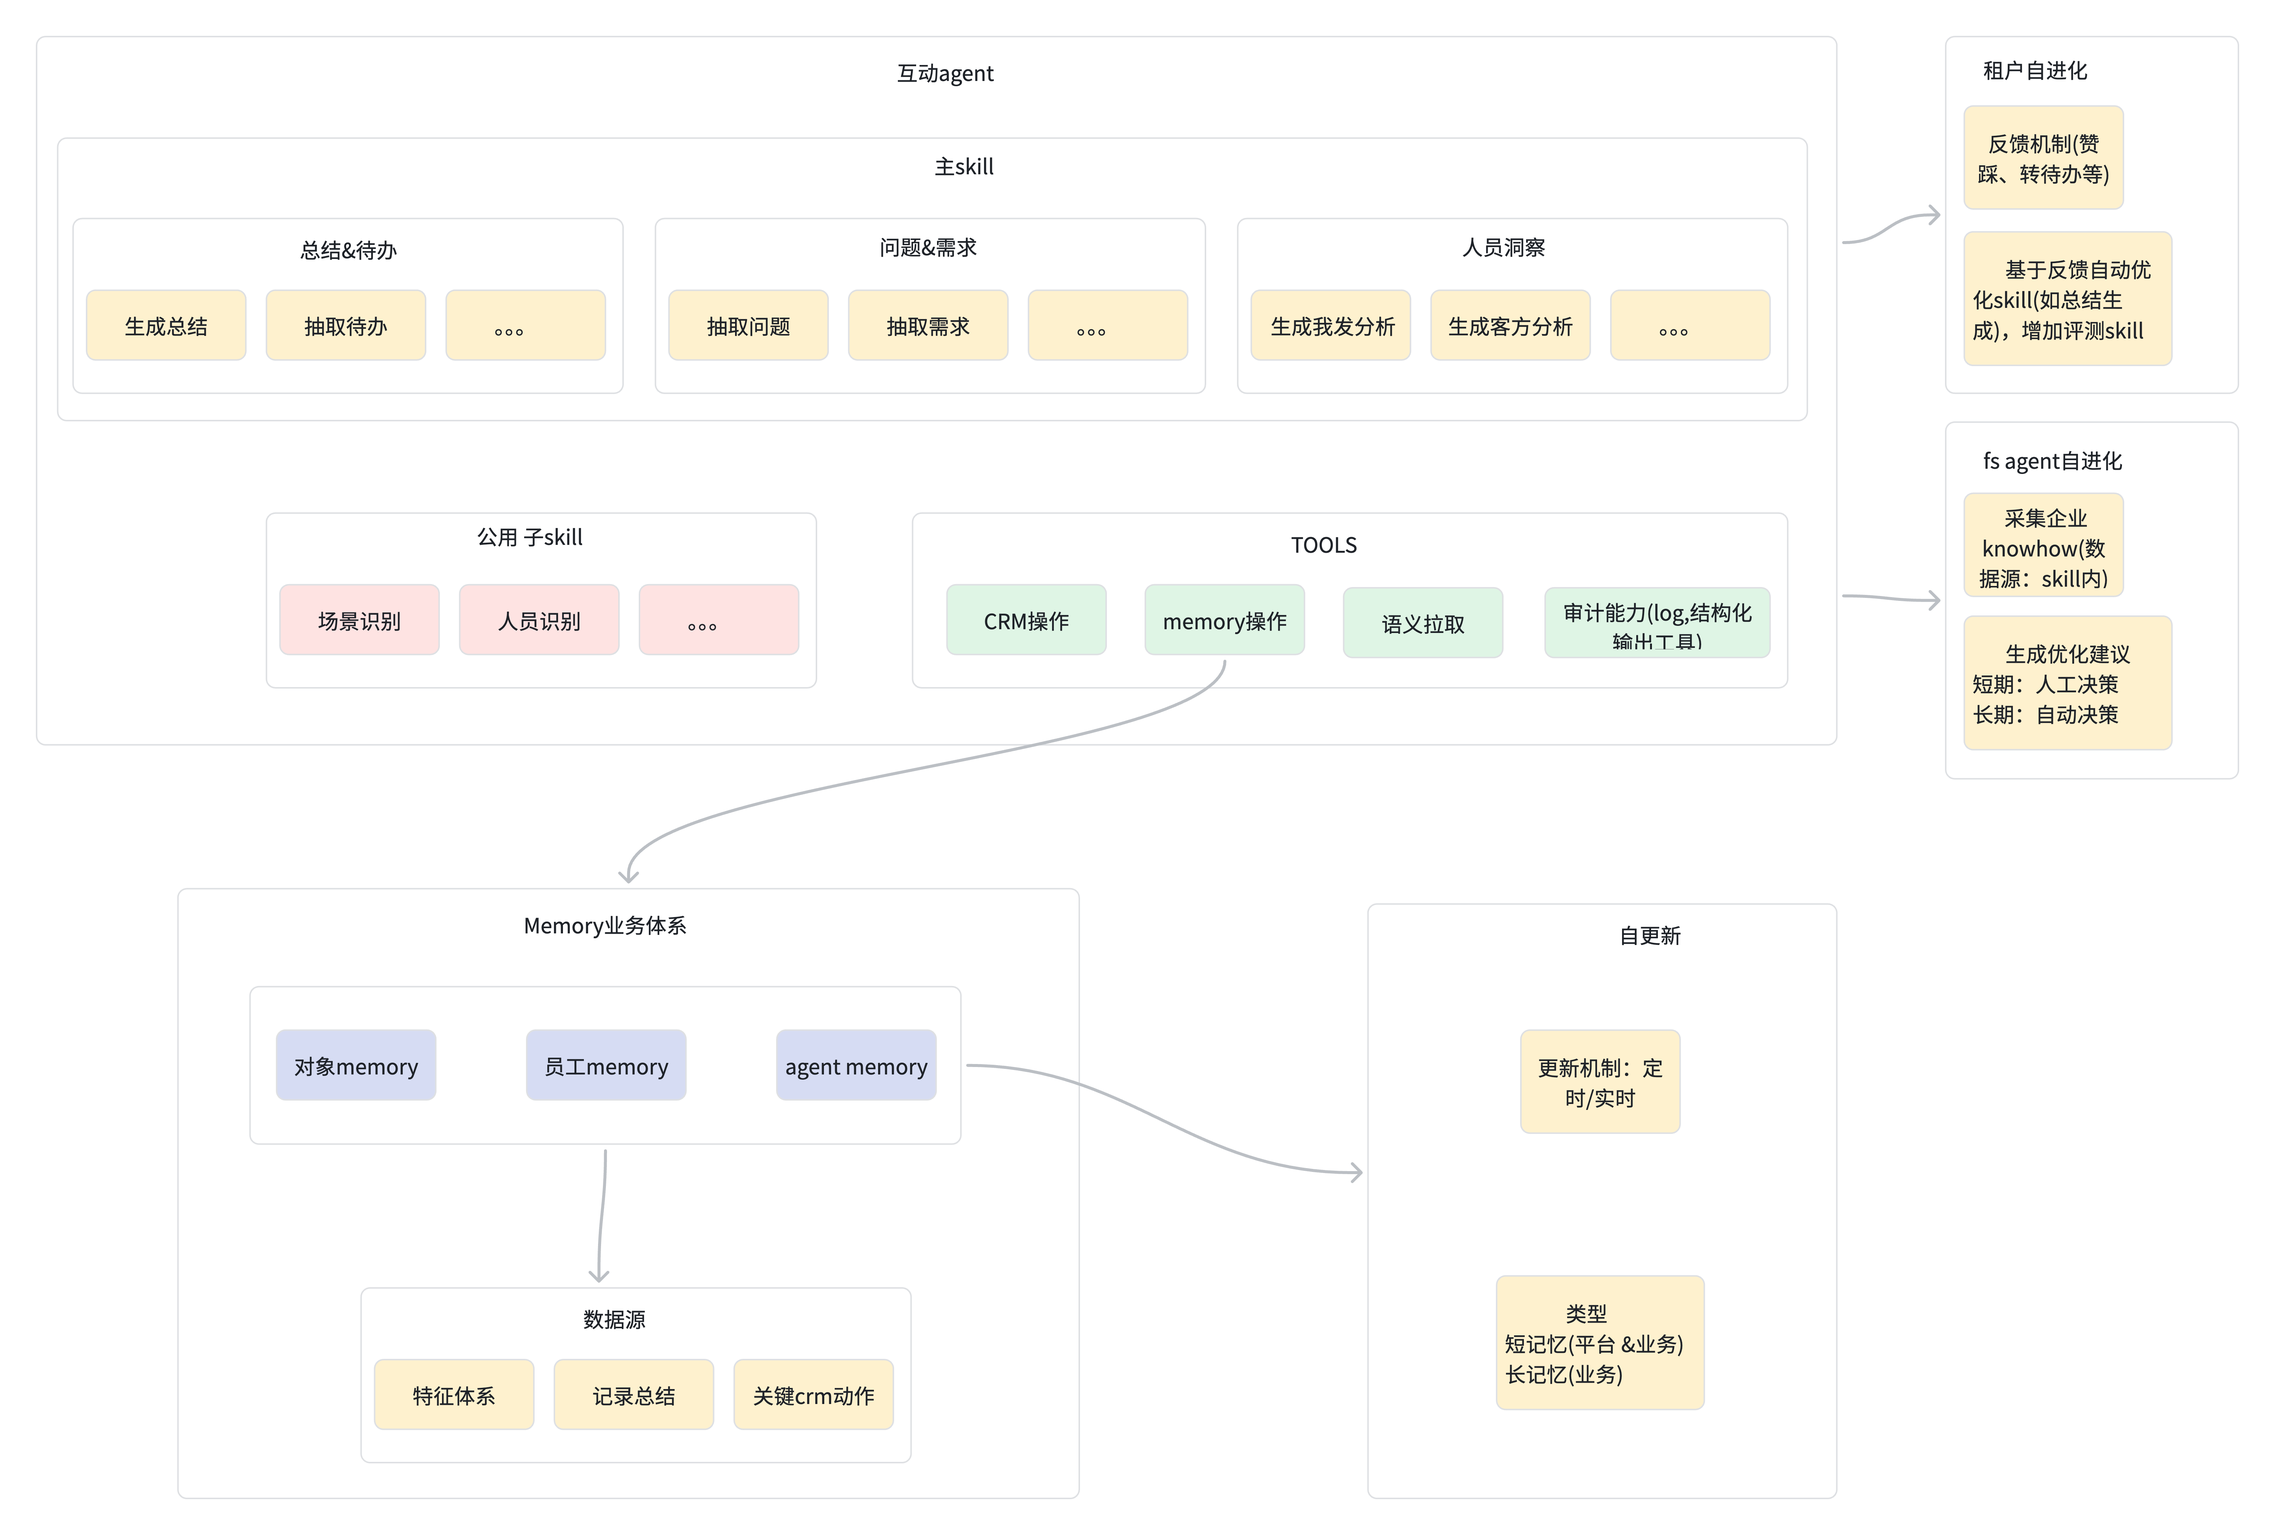
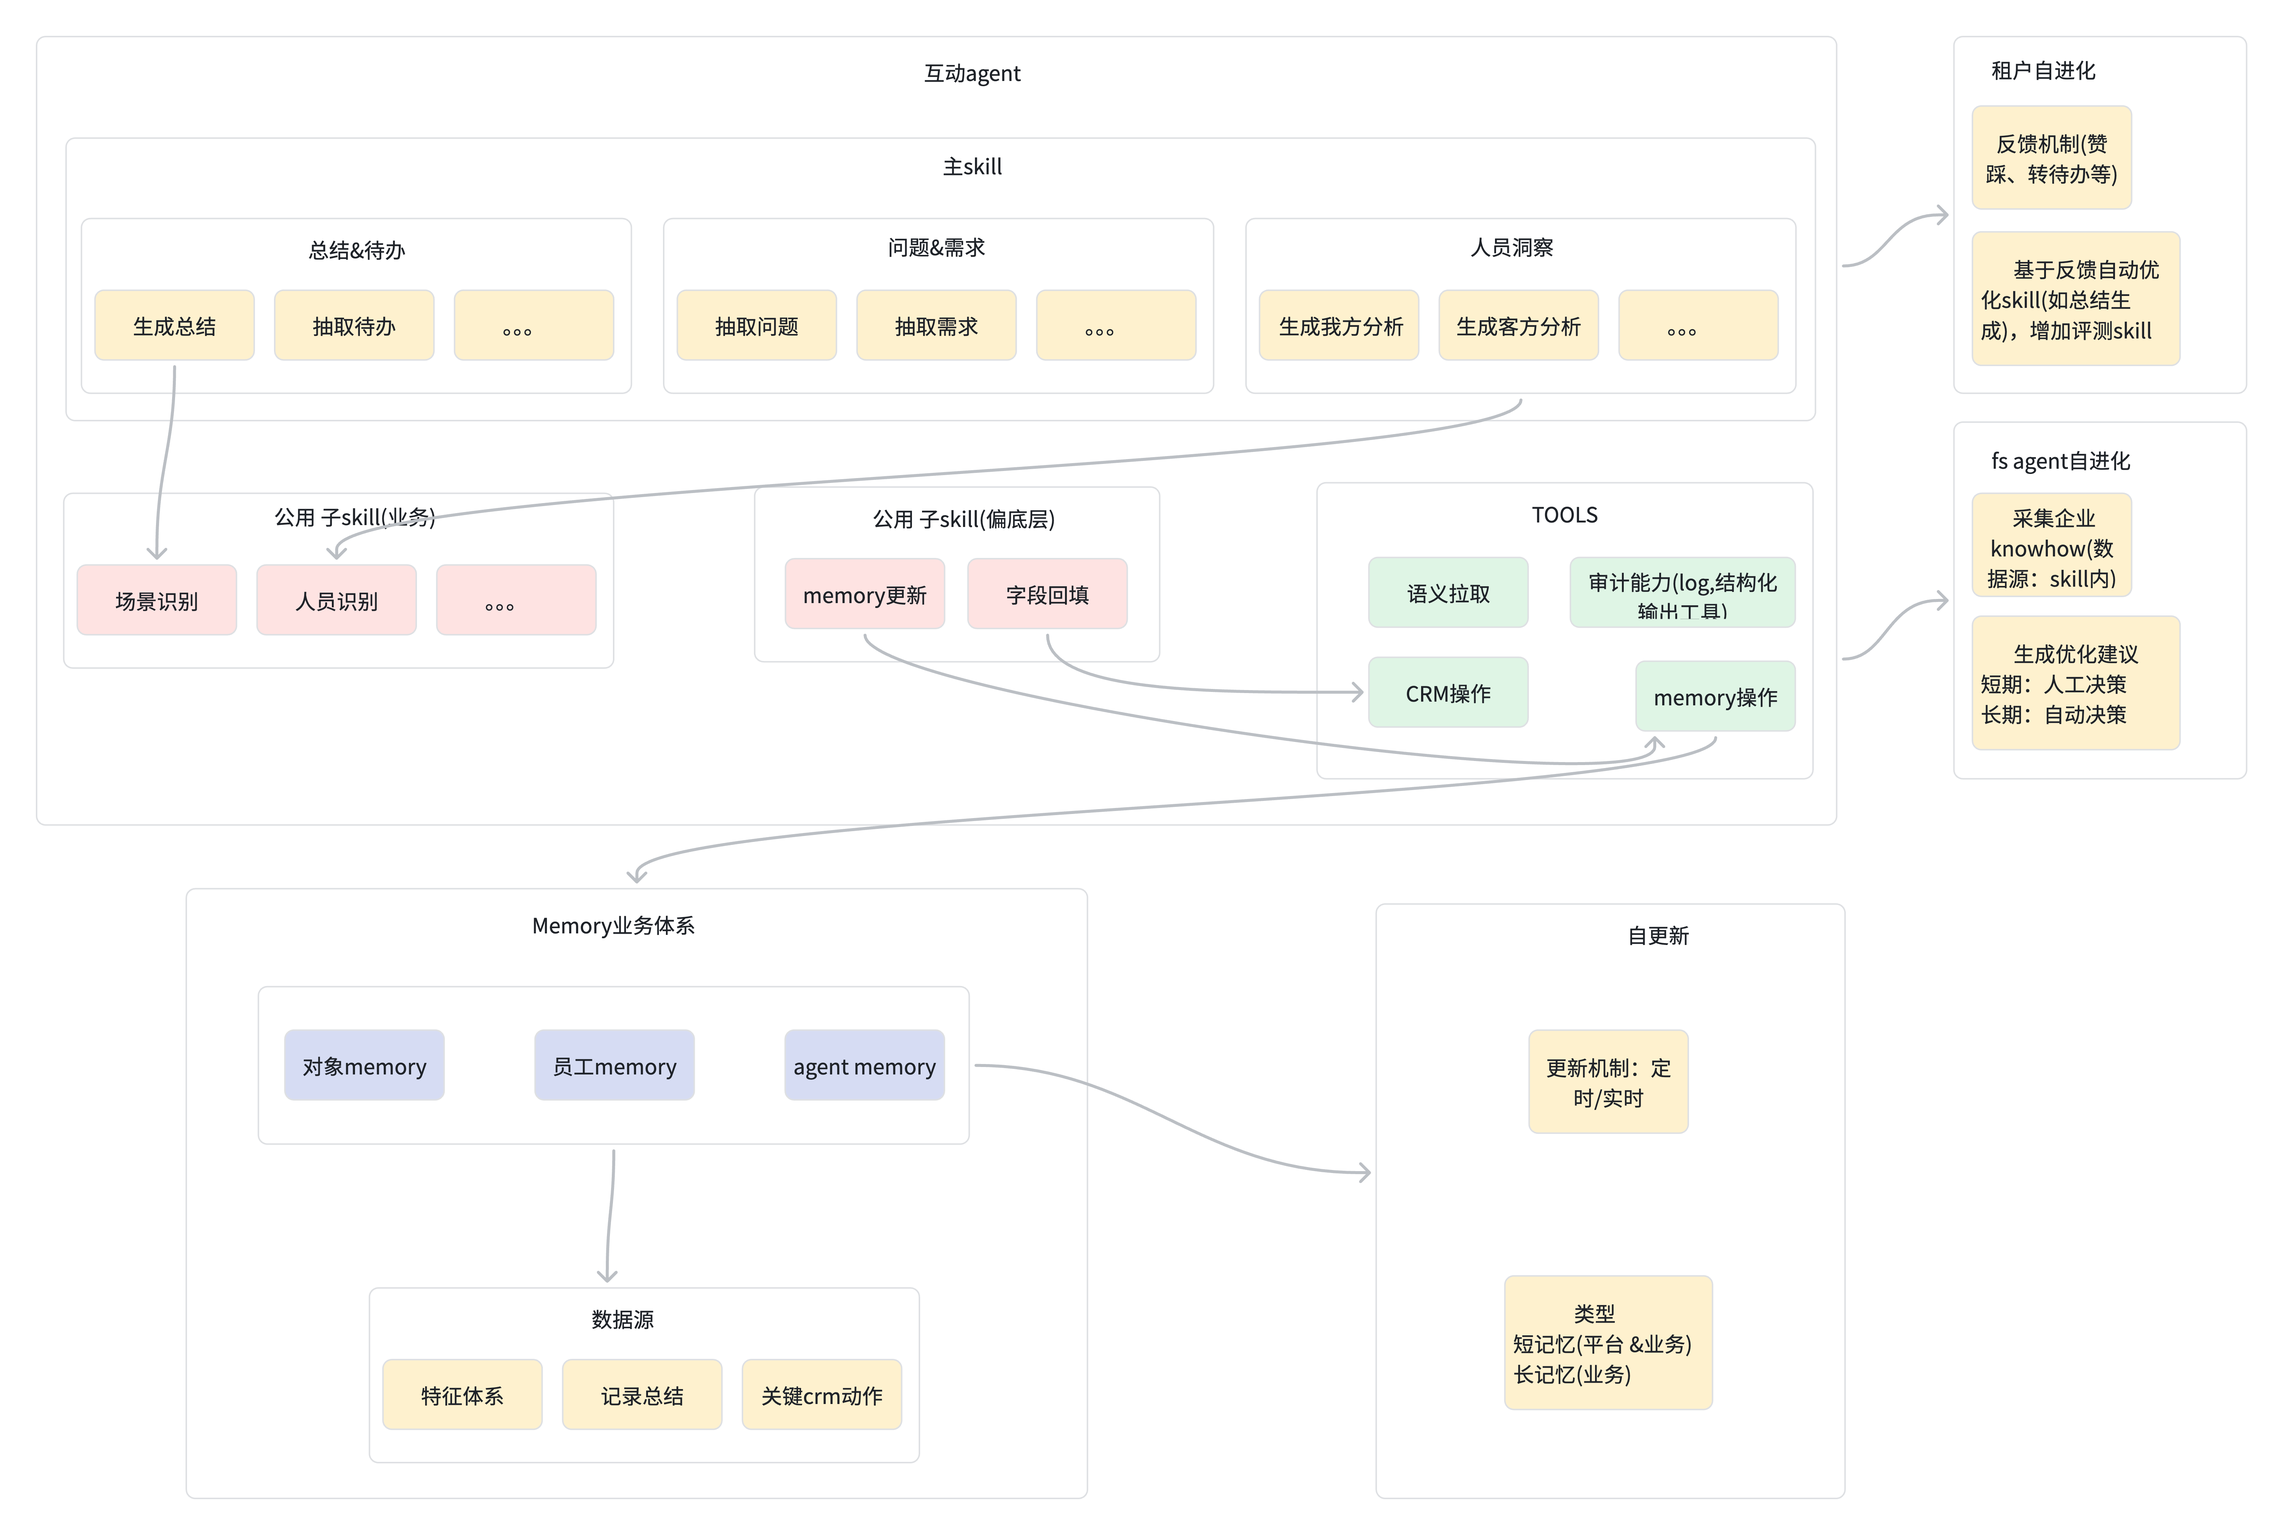
docs: clean CRM summary docs and assets
Remove stale local artifacts, trim duplicated documentation, and align the remaining examples and diagrams with the current runtime/output contract.

diff --git a/README.md b/README.md
@@ -1,147 +1,42 @@
 # summay-skill
 
-## crm-meeting-summary skill 可视化图集
+## 文档入口
 
-- 浏览器入口：[visual-diagrams.md](./docs/crm-meeting-summary/visual-diagrams.md)
-- 仓库相对路径：`docs/crm-meeting-summary/visual-diagrams.md`
-- 内容包含：总架构图、skill 关键流程图、主执行时序图、工程分层结构图、eval 执行链路图
+- [输入方式](docs/crm-meeting-summary/example-input.md)
+- [执行链路示例](docs/crm-meeting-summary/case-execution-example.md)
+- [评审说明](docs/crm-meeting-summary/review-rubric.md)
+- [方法论](docs/crm-meeting-summary/meeting-methodology.md)
+- [可视化图](docs/crm-meeting-summary/visual-diagrams.md)
+- [运行时契约](skills/crm-meeting-summary/references/runtime-contract.md)
+- [评审规则](skills/crm-meeting-summary/review/SKILL.md)
+- [主 skill](skills/crm-meeting-summary/SKILL.md)
 
-## crm-meeting-summary skill 关键流程图
+## 项目结构
 
-```mermaid
-flowchart TD
-    A[用户输入\n自然语言纪要或显式输入包] --> B[crm-meeting-summary 主 Skill]
+### 运行时文件
+- `skills/crm-meeting-summary/SKILL.md`
+- `skills/crm-meeting-summary/review/SKILL.md`
+- `skills/crm-meeting-summary/references/runtime-contract.md`
+- `skills/crm-meeting-summary/references/taxonomy.md`
+- `skills/crm-meeting-summary/references/knowhow/`
+- `skills/crm-meeting-summary/references/templates/`
 
-    B --> B1[1. 输入归一化\nmeeting / crm_context / constraints]
-    B1 --> B2[2. 场景识别\ntaxonomy.md]
-    B2 --> G{scenario_confidence}
-
-    G -->|high / medium| KH[3. 加载 knowhow\ncommon + scenario\n按证据加载 industry / patch / best-cases]
-    G -->|low| KHU[3'. conservative mode\n只加载 common\n不加载 scenario / patch / best-cases]
-
-    KH --> R[4. 决定最小 CRM 请求\nretrieval policy + data_requirements\n=> crm_data_requests]
-    KHU --> R
-
-    R --> N[5. 语义归一\nsemantic_normalization\n对象 / 关系 / 字段口径统一]
-    N --> M[6. 当前会议特征提取\nmeeting_state_features\n只基于当前 meeting + CRM]
-    M --> MM[7. 组装 memory 上下文\n当前会议 / CRM 优先\n冲突时保留当前证据]
-    MM --> C{memory 是否冲突}
-    C -->|否| S[8. 生成原始总结\n会议快照 / 核心判断\n下一步 / 风险待确认]
-    C -->|是| MC[记录 memory conflict\n必要时降低判断强度]
-    MC --> S
-
-    S --> T[9. 按 template 重排\ntemplate 与 knowhow 平行\n只重排结构, 不新增事实]
-    T --> RV[10. crm-meeting-summary-review 子 Skill]
-    RV --> RV1[校验事实准确性]
-    RV1 --> RV2[校验风险覆盖]
-    RV2 --> RV3[校验业务可行动性]
-    RV3 --> D{review 是否通过}
-
-    D -->|pass| E[最终交付\n人类可读总结]
-    D -->|fail,可修复| F[定向修复\n只修失败维度后重生总结]
-    F --> S
-    D -->|fail,仍不稳| H[人工接管\n保留当前最佳总结并标注人工复核]
-
-    E --> I[输出给调用方\nhuman summary]
-    H --> I
-
-    classDef core fill:#ffe9e9,stroke:#cf222e,stroke-width:3px,color:#cf222e;
-    classDef detail fill:#eefaf1,stroke:#2da44e,stroke-width:1.5px,color:#0f2d1b;
-    classDef decision fill:#fff3cd,stroke:#b7791f,stroke-width:2px,color:#4a2f00;
-
-    class B,B2,KH,KHU,MM,S,T,RV,I core;
-    class A,N,MC,M,E,F,H,B1,R,RV1,RV2,RV3 detail;
-    class G,C,D decision;
-```
-
-## 组件说明
-
-### 1. 主 Skill
-- 文件：`skills/crm-meeting-summary/SKILL.md`
-- 职责：
-  - 归一化输入
-  - 识别场景
-  - 约束最小 retrieval
-  - 生成人类可读总结
-  - 调用 review skill
-  - 控制定向修复与人工复核
-
-### 2. Review Skill
-- 文件：`skills/crm-meeting-summary/review/SKILL.md`
-- 职责：
-  - 判断 pass / fail
-  - 给出 `failure_reasons`
-  - 给出 `targeted_regeneration_instructions`
-  - 不重写正文，只做质量闸门
-- 运行时判定口径以 `skills/crm-meeting-summary/review/SKILL.md` 为准；`docs/crm-meeting-summary/review-rubric.md` 只作为人工阅读说明，不是 runtime 依赖
-
-### 3. 参考契约层
-- `skills/crm-meeting-summary/references/taxonomy.md`：定义场景分类与默认 retrieval policy
-- `skills/crm-meeting-summary/references/runtime-contract.md`：运行时输入输出契约、request groups、memory 使用边界与审计规则的单一事实来源
-
-### 4. 方法论、Knowhow 与 Template 层
-- [docs/crm-meeting-summary/meeting-methodology.md](docs/crm-meeting-summary/meeting-methodology.md)：解释为什么这是 CRM 总结产品，而不是通用 transcript summarizer
-- [skills/crm-meeting-summary/references/knowhow/common/](skills/crm-meeting-summary/references/knowhow/common/)：第一层，所有 case 默认加载，提供跨场景共用的评估框架、基础判断边界与通用风险提醒，不是事实来源
-- [skills/crm-meeting-summary/references/knowhow/by-scenario/](skills/crm-meeting-summary/references/knowhow/by-scenario/)：第二层，在场景已识别时按 `scenario_slug` 加载，补充该场景专属的关注点、风险信号、成功标准与 `data_requirements`，参与 CRM 请求决策与总结生成，不是事实来源
-- [skills/crm-meeting-summary/references/knowhow/by-industry/](skills/crm-meeting-summary/references/knowhow/by-industry/)：第三层，在行业有独立证据时加载，补充行业语境、行业常见约束与行业化判断边界，不是事实来源
-- [skills/crm-meeting-summary/references/knowhow/patches/](skills/crm-meeting-summary/references/knowhow/patches/)：第四层，只在“场景 + 行业”组合有特殊规则时加载，用来修正前面三层在特定组合下不够准确的地方，不是事实来源
-- [skills/crm-meeting-summary/references/knowhow/best-cases/](skills/crm-meeting-summary/references/knowhow/best-cases/)：可选层，不承担分类、检索或 policy 约束职责，只在确有帮助时加载，用来补充高质量总结框架、表达结构和 coverage checklist，不是事实来源
-- [skills/crm-meeting-summary/references/templates/](skills/crm-meeting-summary/references/templates/)：模板层，与 knowhow 平行，在原始 summary 生成后才介入，只负责目录重排，不提供新事实
-
-加载关系：
-- knowhow 基础顺序是 `common -> by-scenario -> by-industry -> patches`
-- `best-cases` 是独立可选增强层，不参与前面的规则链
-- `templates` 不走 knowhow 的多层 merge 模型，只在 summary 已生成后选一份最终模板做结构重排
-- `template` 命中顺序是 `profiles/<scenario_slug>--<industry> -> profiles/<scenario_slug> -> common/default`
-
-### 5. 开发辅助层
+### 测试与验证文件
 - `tests/crm_meeting_summary/helpers/real_runner.py`
 - `tests/crm_meeting_summary/evals/run_real_evals.py`
 - `tests/crm_meeting_summary/helpers/mock_runner.py`
 - `tests/crm_meeting_summary/fixtures/mock-runtime/`
 - `tests/crm_meeting_summary/evals/evals.json`
 
-作用：
-- 通过 `tests/crm_meeting_summary/helpers/real_runner.py` 调用真实 skill，并捕获完整最终返回值
-- 通过 `run_real_evals.py` 批量跑关键 case
-- 用 `tests/crm_meeting_summary/helpers/mock_runner.py` 做本地回归验证
-- 用 mock data 演练输入
-- 做文档与行为对齐验证
+### 非运行时说明文件
+- `docs/crm-meeting-summary/meeting-methodology.md`
+- `docs/crm-meeting-summary/review-rubric.md`
+- `docs/crm-meeting-summary/case-execution-example.md`
+- `docs/crm-meeting-summary/example-input.md`
+- `docs/crm-meeting-summary/visual-diagrams.md`
 
-不是生产运行路径。
+## 当前约束
 
-## 当前真实运行链路
-
-真实调用时，`meeting record` 可以直接内联到输入里，也可以通过 `meeting.record_text_path` 指向文本文件，也可以通过 `input_bundle_path` 指向目录输入包。目录输入包只允许读取 `meeting-record.txt`、`AccountObj.json`、`NewOpportunityObj.json`、`PersonnelObj.json`、`ContactObj.json`。主 skill 在归一化阶段按 `record_text > record_text_path > input_bundle_path/meeting-record.txt` 的优先级得到最终会议纪要内容，再进入后续流程。
-
-1. 调用 `crm-meeting-summary`
-2. 主 skill 在 Claude runtime 内完成输入归一化与场景识别
-3. 按 `scenario_confidence` 决定是否进入 conservative mode，并据此加载最小 knowhow 集合
-4. 主 skill 按 `taxonomy.md` 的 retrieval policy、`runtime-contract.md` 的 request groups，以及已加载 knowhow 的 `data_requirements`，形成最小 `crm_data_requests`
-5. 主 skill 先产出 `semantic_normalization`，统一对象、关系、字段口径
-6. 主 skill 再从当前 meeting + CRM 提取 `meeting_state_features`
-7. 主 skill 组装 memory 上下文；如果 memory 与当前会议或当前 CRM 冲突，优先保留当前证据，并在需要时降低判断强度
-8. 主 skill 先生成原始人类总结，覆盖会议快照、核心总结与判断、Knowhow 关注点、建议的下一步动作、风险与待确认问题
-9. 主 skill 再选择单一 template，把已有 summary 重排成最终目录格式；template 只重组已有内容，不新增事实
-10. 主 skill 调用 `crm-meeting-summary-review`
-11. review pass 则交付最终人类总结
-12. review 最多允许 2 次定向修复；若仍不稳定，则保留当前最佳总结并要求人工复核
-
-## 本轮补强点
-
-本轮针对回归 case 收紧了这些约束：
-- low confidence 必须落到 `其他 / 不确定` 或等价保守结论
-- uncertain 模式不得加载 scenario knowhow / patches / best-cases
-- uncertain 模式下只允许最小消歧请求
-- memory 与当前会议冲突时必须在总结中暴露冲突边界
-- 弱证据输入在两轮定向修复后必须进入人工复核
-- 模板缺失项不得编造成确定性陈述
-
-## 文档入口
-
-- 输入方式：`docs/crm-meeting-summary/example-input.md`
-- 完整执行链路与标准输出样例：`docs/crm-meeting-summary/case-execution-example.md`
-- 运行时单一事实来源：`skills/crm-meeting-summary/references/runtime-contract.md`
-- 运行时评审规则：`skills/crm-meeting-summary/review/SKILL.md`
-- 评审说明文档：`docs/crm-meeting-summary/review-rubric.md`
-- 产品方法论：`docs/crm-meeting-summary/meeting-methodology.md`
+- 最终正式口径以 `runtime-contract.md`、主 skill、review skill 为准
+- `docs/` 下文档只做说明，不作为运行时单一事实来源
+- mock runner 与 fixtures 只用于开发验证，不是生产运行路径

diff --git a/docs/crm-meeting-summary/visual-diagrams.md b/docs/crm-meeting-summary/visual-diagrams.md
@@ -1,7 +1,6 @@
-# crm-meeting-summary 
+# crm-meeting-summary
 
 ## 1. 总架构图
-
 
 ![总架构图参考草图](../../whiteboard_exported_image.png)
 
@@ -38,7 +37,7 @@ if (memory 与当前 meeting / CRM\n证据冲突?) then (是)
   :优先保留当前证据；\n暴露冲突边界，必要时降低判断强度;
 else (否)
 endif
-:生成通用原始 summary\n只写已确认内容，不强绑固定章节;
+:生成原始 summary\n只写已确认内容;
 :按单一 template 重排结构\n只重组已有内容，不新增事实;
 :调用 review 子 skill\n提交 summary / loaded knowhow\n最小证据摘录 / 缺失信息\n必要的 template / memory conflict 说明;
 :按固定顺序评审\n事实准确性 -> 风险覆盖 -> 业务价值;
@@ -86,7 +85,7 @@ end
 Skill -> Skill: 语义归一
 Skill -> Skill: 提取通用会议状态
 Skill -> Skill: 组装最小 memory 上下文\n冲突时优先当前 meeting / CRM 证据
-Skill -> Skill: 生成通用原始 summary\n只写已确认内容，不强绑固定章节
+Skill -> Skill: 生成原始 summary\n只写已确认内容
 Skill -> Skill: 按 template 重排最终目录\n只重组已有内容，不新增事实
 Skill -> Review: 提交 summary / loaded knowhow\n最小证据摘录 / 缺失信息\n必要的 template / memory conflict 说明
 Review -> Review: 按固定顺序评审\n事实准确性 -> 风险覆盖 -> 业务价值
@@ -113,7 +112,8 @@ Claude --> User: 展示结果
 @enduml
 ```
 
-## 4. 当前风险
-- 与纷享 agent体系适配度如何
-- 耗时和 token 消耗都会大幅增加
-- 对于模型依赖比较强，目前是用 gpt 5.4 效果较优
+## 4. 说明
+
+- 本页只做结构示意，不作为运行时契约来源
+- 正式口径以 `skills/crm-meeting-summary/references/runtime-contract.md`、`skills/crm-meeting-summary/SKILL.md`、`skills/crm-meeting-summary/review/SKILL.md` 为准
+- 图中使用的 `semantic_normalization`、`meeting_state_features`、review loop 等词，仅表示内部流程阶段，不代表最终用户可见输出结构
